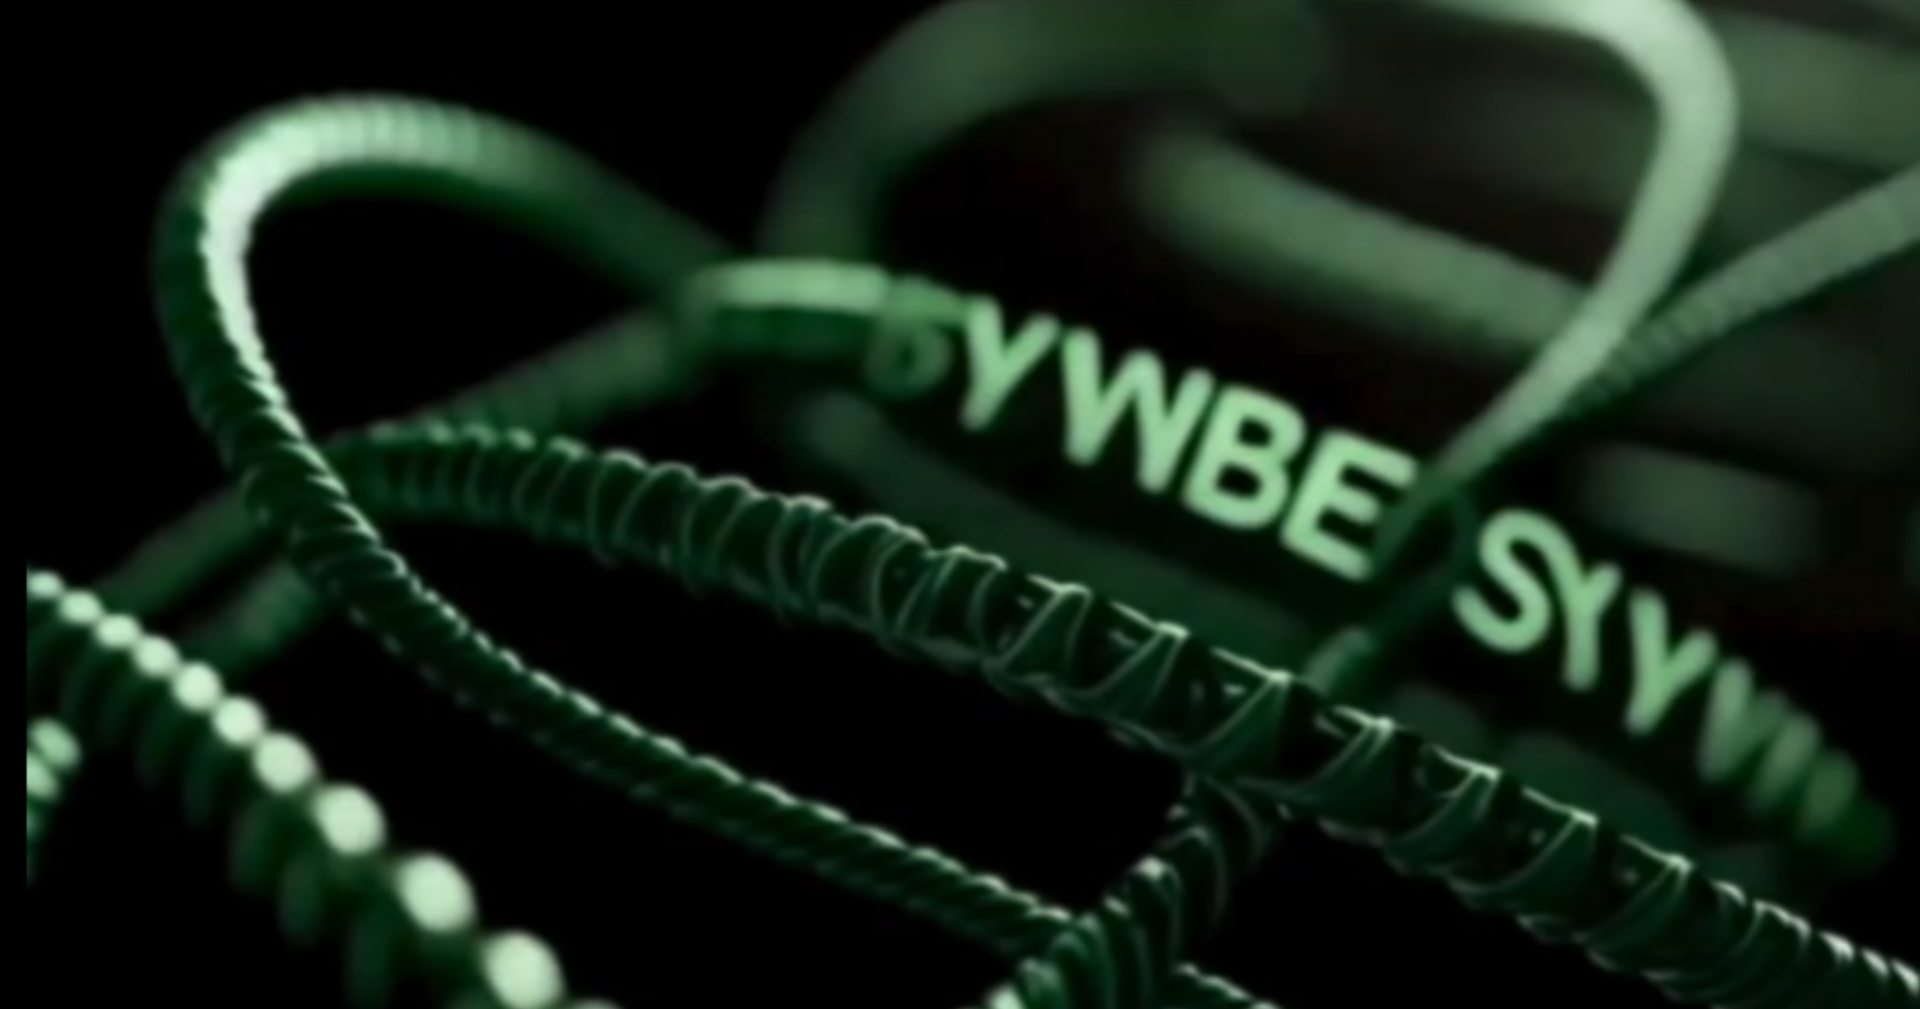
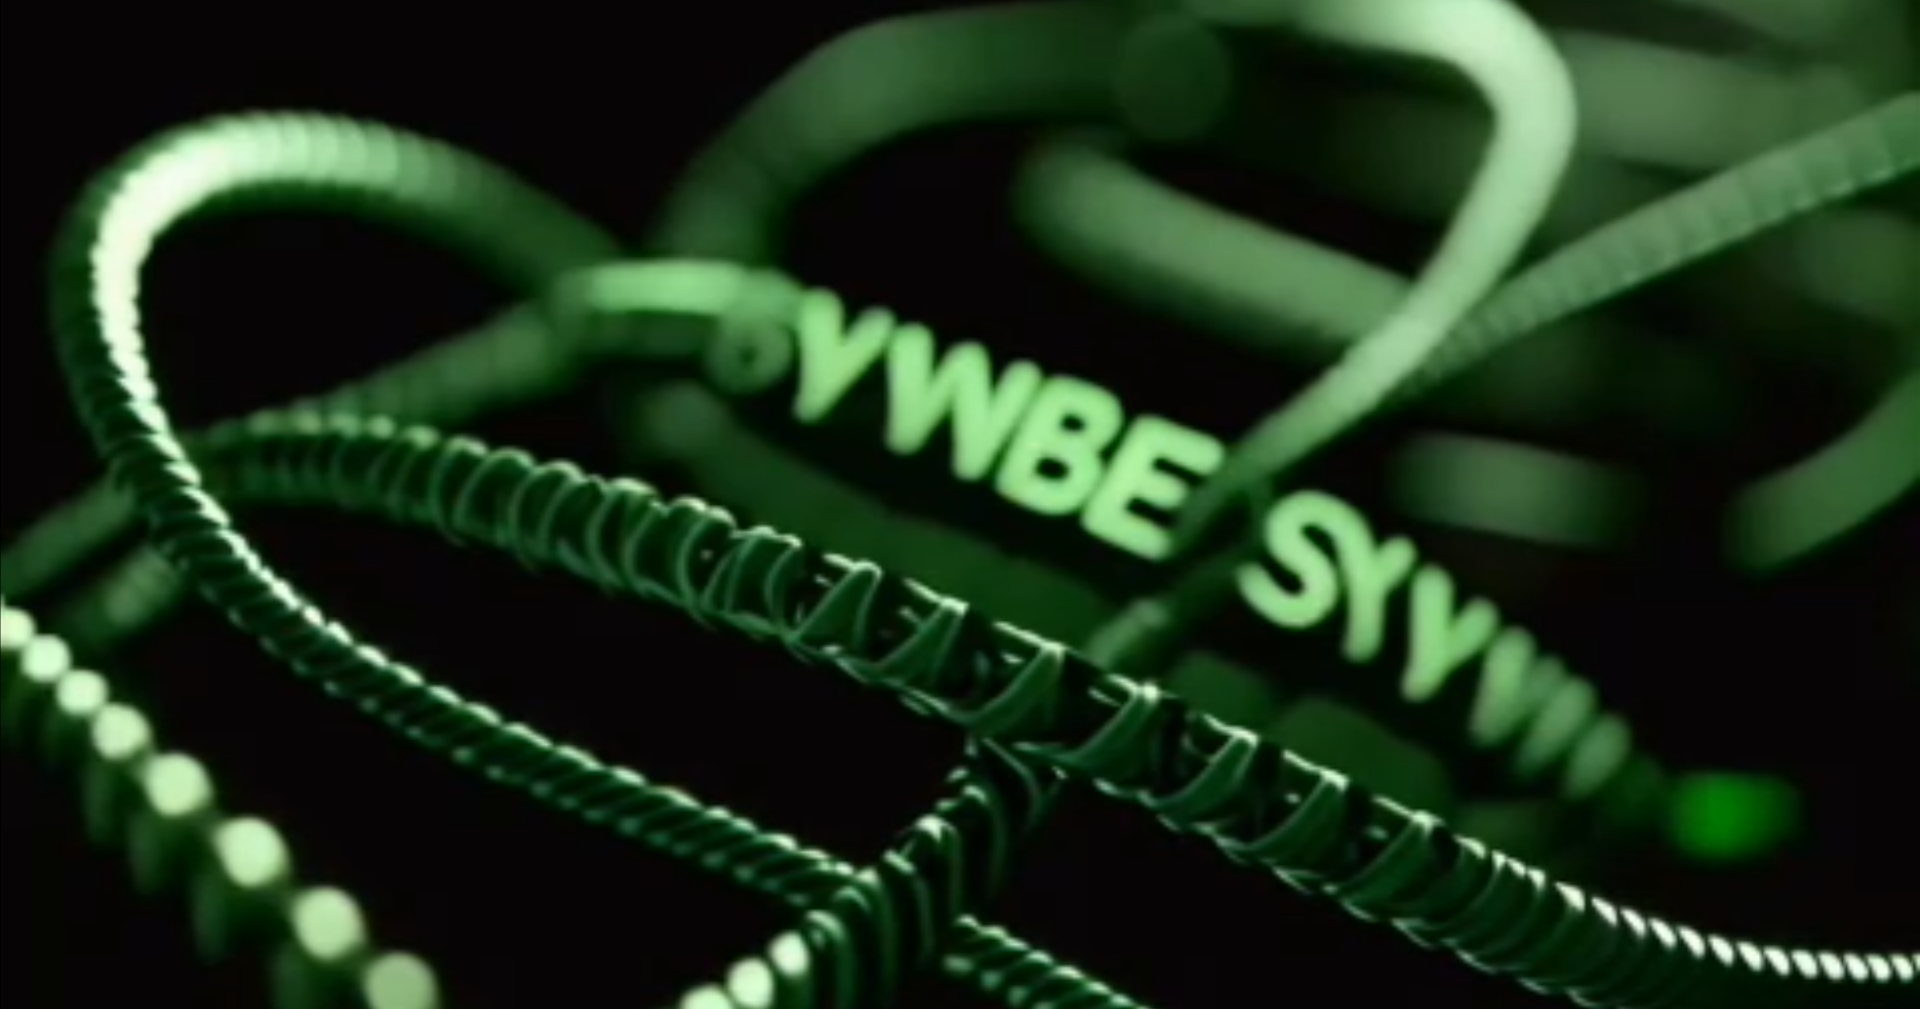
Add files via upload

diff --git a/style.css b/style.css
@@ -12,7 +12,7 @@ body {
 }
 
 /* Video Background */
-.video-background {
+.image-background {
     position: relative;
     width: 100vw;
     height: 100vh;
@@ -30,14 +30,14 @@ body {
     transform: translate(-50%, -50%);
 }
 
-.video-background img {
-    width: 100%;
-    height: 100%;
+.image-background img {
+    position: fixed;
+    top: 50%;
+    left: 50%;
+    width: 100vw;
+    height: 100vh;
     object-fit: cover;
-    width: 100%;
-    height: 100%;
-    object-fit: cover;
-    display: none;
+    transform: translate(-50%, -50%);
 }
 
 @media (max-width: 414px) {

diff --git a/index.html b/index.html
@@ -8,10 +8,8 @@
     <link rel="stylesheet" href="style.css">
 </head>
 <body>
-    <div class="video-background">
-        <video autoplay muted loop playsinline>
-            <source src="images/background.mp4" type="video/mp4">
-        </video>
+    <div class="image-background">
+        <img src="images/background.gif">
     </div>
 
     <div class="overlay-navbar"></div>
